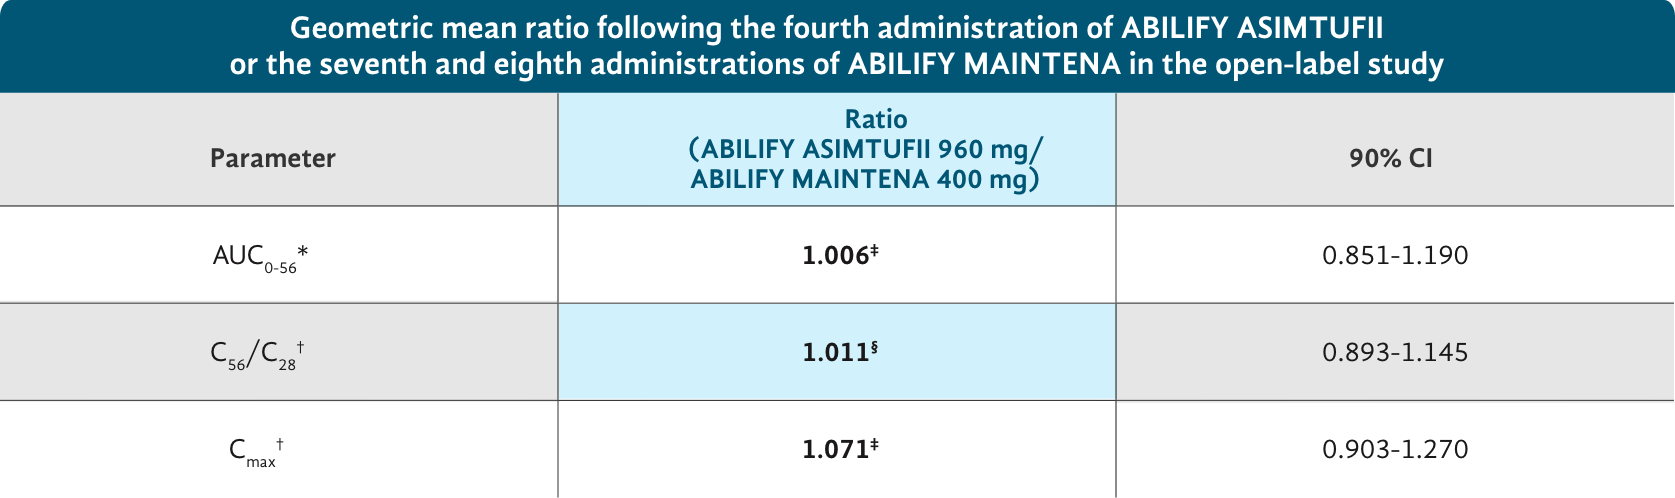
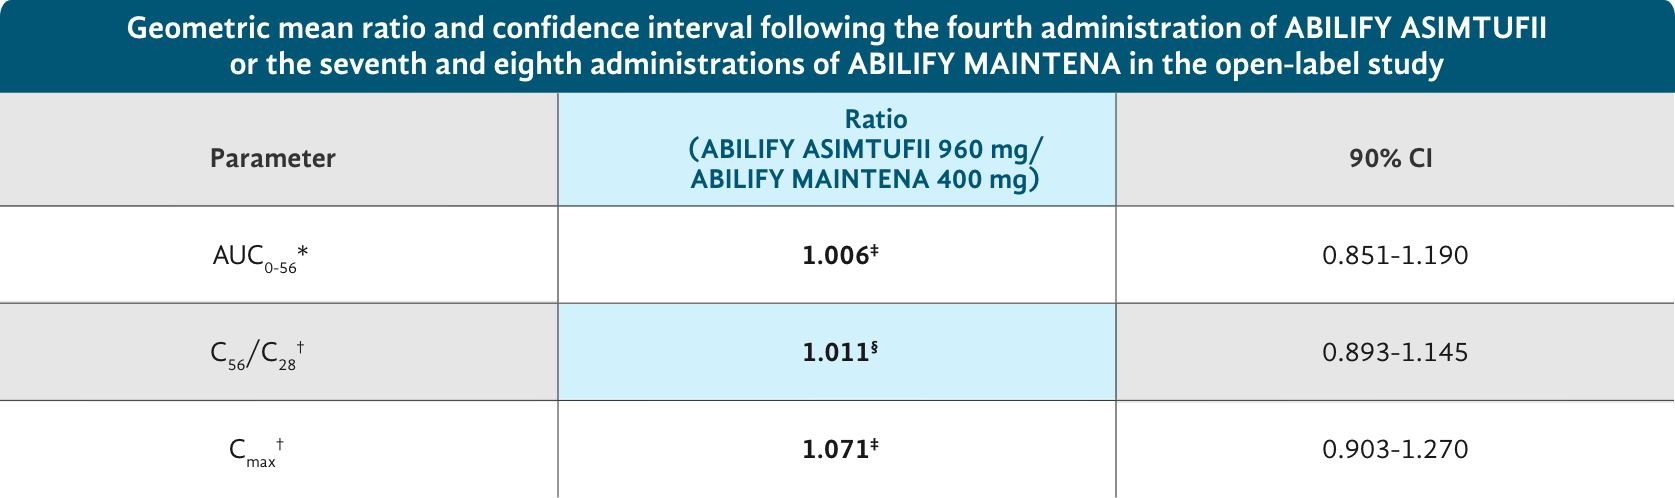
DF-33760 | Update - A.3.2.2_Efficacy

Changed region(s): [[0.0621, 0.0301, 0.9313, 0.0904]]

diff --git a/projects/veeva-clm/src/Components/05-pages/A.3.2.2_Efficacy/A.3.2.2_Efficacy.stories.jsx b/projects/veeva-clm/src/Components/05-pages/A.3.2.2_Efficacy/A.3.2.2_Efficacy.stories.jsx
@@ -22,61 +22,71 @@ const classNames = require('classnames');
 
 const content = () => (
   <div className={`${blockName}_wrapper`}>
-    <Header custom={classNames(`${blockName}-header`, 'mb-15')}>
+    <Header custom={classNames(`${blockName}-header`, 'mb-20')}>
       ABILIFY ASIMTUFII<sup>®</sup> (aripiprazole) and <br />
       ABILIFY MAINTENA
       <sup>®</sup> (aripiprazole) showed similar
-      <br /> aripiprazole concentrations<sup>1</sup>
+      <br /> aripiprazole concentrations
     </Header>
-    <img src={TableImg} alt='ratio table' className='mb-50' />
-    <img src={TableBannerImg} alt='banner' className='mb-20' />
+    <img src={TableImg} alt='ratio table' className='mb-40' />
+    <img
+      src={TableBannerImg}
+      alt='banner'
+      className='mb-20'
+      style={{
+        marginLeft: '-20px',
+        width: 'calc(100% + 20px)',
+        maxWidth: 'none',
+      }}
+    />
     <Footer
+      custom='mb-5'
       footnotes={{
         data: [
           {
-            supLeft: '*',
+            supLeftBig: '*',
             innerText: (
-              <span>
-                AUC<sup>0-56</sup> following the fourth administration of
-                ABILIFY ASIMTUFII 960 mg or the sum of AUC<sup>0-28</sup>{' '}
+              <>
+                AUC<sub>0-56</sub> following the fourth administration of
+                ABILIFY ASIMTUFII 960 mg or the sum of AUC<sub>0-28</sub>
                 following the seventh and eighth administrations of ABILIFY
                 MAINTENA 400 mg.
-              </span>
+              </>
             ),
           },
           {
             supLeft: '†',
             innerText: (
-              <span>
+              <>
                 Aripiprazole plasma concentrations following the fourth
-                administration of ABILIFY ASIMTUFII 960 mg (C<sup>56</sup>) or
+                administration of ABILIFY ASIMTUFII 960 mg (C<sub>56</sub>) or
                 the eighth administration of ABILIFY MAINTENA 400 mg (C
-                <sup>28</sup>).
-              </span>
+                <sub>28</sub>).
+              </>
             ),
           },
           {
             supLeft: '‡',
             innerText: (
-              <span>
+              <>
                 ABILIFY ASIMTUFII 960 mg (n=34), ABILIFY MAINTENA 400 mg (n=32).
-              </span>
+              </>
             ),
           },
           {
             supLeft: '§',
             innerText: (
-              <span>
+              <>
                 ABILIFY ASIMTUFII 960 mg (n=96), ABILIFY MAINTENA 400 mg (n=82).
-              </span>
+              </>
             ),
           },
           {
             innerText: (
-              <span>
+              <>
                 AUC=area under curve; C=concentration; CI=confidence interval; C
-                <sup>max</sup>=maximum concentration.
-              </span>
+                <sub>max</sub>=maximum concentration.
+              </>
             ),
           },
         ],

diff --git a/projects/veeva-clm/src/Components/01-atoms/Content/FootNote/FootNote.jsx b/projects/veeva-clm/src/Components/01-atoms/Content/FootNote/FootNote.jsx
@@ -14,10 +14,8 @@ export const FootNote = ({ custom, footnotes }) => {
       {footnotes && (
         <ul className='footnote__list'>
           {footnotes.map((footnote, index) => {
-            const supRightClass = footnote.supRight && 'lineHeight' || ''
-
             return (
-              <li className={classNames(supRightClass)} key={ index }>
+              <li key={ index }>
                 { footnote.supLeftBig && <SupLeft big text={ footnote.supLeftBig } /> }
                 { footnote.supLeft && <SupLeft text={ footnote.supLeft } /> }
                 { footnote.innerText }

diff --git a/projects/veeva-clm/src/Components/01-atoms/Content/FootNote/FootNote.scss b/projects/veeva-clm/src/Components/01-atoms/Content/FootNote/FootNote.scss
@@ -8,6 +8,7 @@
 
     li {
       position: relative;
+      line-height: 15px;
     }
   }
 
@@ -15,26 +16,31 @@
     margin: 0;
   }
 
+  sup,
+  sub {
+    vertical-align: baseline;
+    position: relative;
+  }
+
   sup {
     font-size: 8px;
-    bottom: 0.5em;
 
     &.big {
       font-size: 11px;
-      bottom: 0.2em;
     }
+  }
+
+  sup:not(.sup-left) {
+    top: -0.4em;
   }
 
   sub {
     font-size: 6px;
+    top: 0.4em;
   }
 
   &-small {
     font-size: 8px;
     line-height: 8px;
-  }
-
-  .lineHeight {
-    transform: translate(0, -4px);
   }
 }

diff --git a/projects/veeva-clm/src/Components/05-pages/A.3.3.2_Safety/A.3.3.2_Safety.stories.jsx b/projects/veeva-clm/src/Components/05-pages/A.3.3.2_Safety/A.3.3.2_Safety.stories.jsx
@@ -74,6 +74,7 @@ const content = () => (
       )}
     />
     <Footer
+      custom='mb-5'
       footnotes={{
         data: [
           {
@@ -114,7 +115,7 @@ const content = () => (
         ],
       }}
       safetyInfo={{
-        custom: 'mt-15',
+        custom: 'mt-10',
         data: [
           {
             text: (

diff --git a/projects/veeva-clm/src/Components/01-atoms/Content/SupLeft/SupLeft.scss b/projects/veeva-clm/src/Components/01-atoms/Content/SupLeft/SupLeft.scss
@@ -1,8 +1,7 @@
-.sup-left {
+sup.sup-left {
   position: absolute;
   right: 100%;
-  bottom: 0.5em;
-  font-size: 10px;
+  font-size: 8px;
   line-height: 1;
 
   &.big {

diff --git a/projects/veeva-clm/src/Components/05-pages/A.3.3.2_Safety/A.3.3.2_Safety.scss b/projects/veeva-clm/src/Components/05-pages/A.3.3.2_Safety/A.3.3.2_Safety.scss
@@ -16,7 +16,7 @@
     .footnote {
       ul {
         li {
-          line-height: 9px;
+          line-height: 13px;
         }
       }
     }
